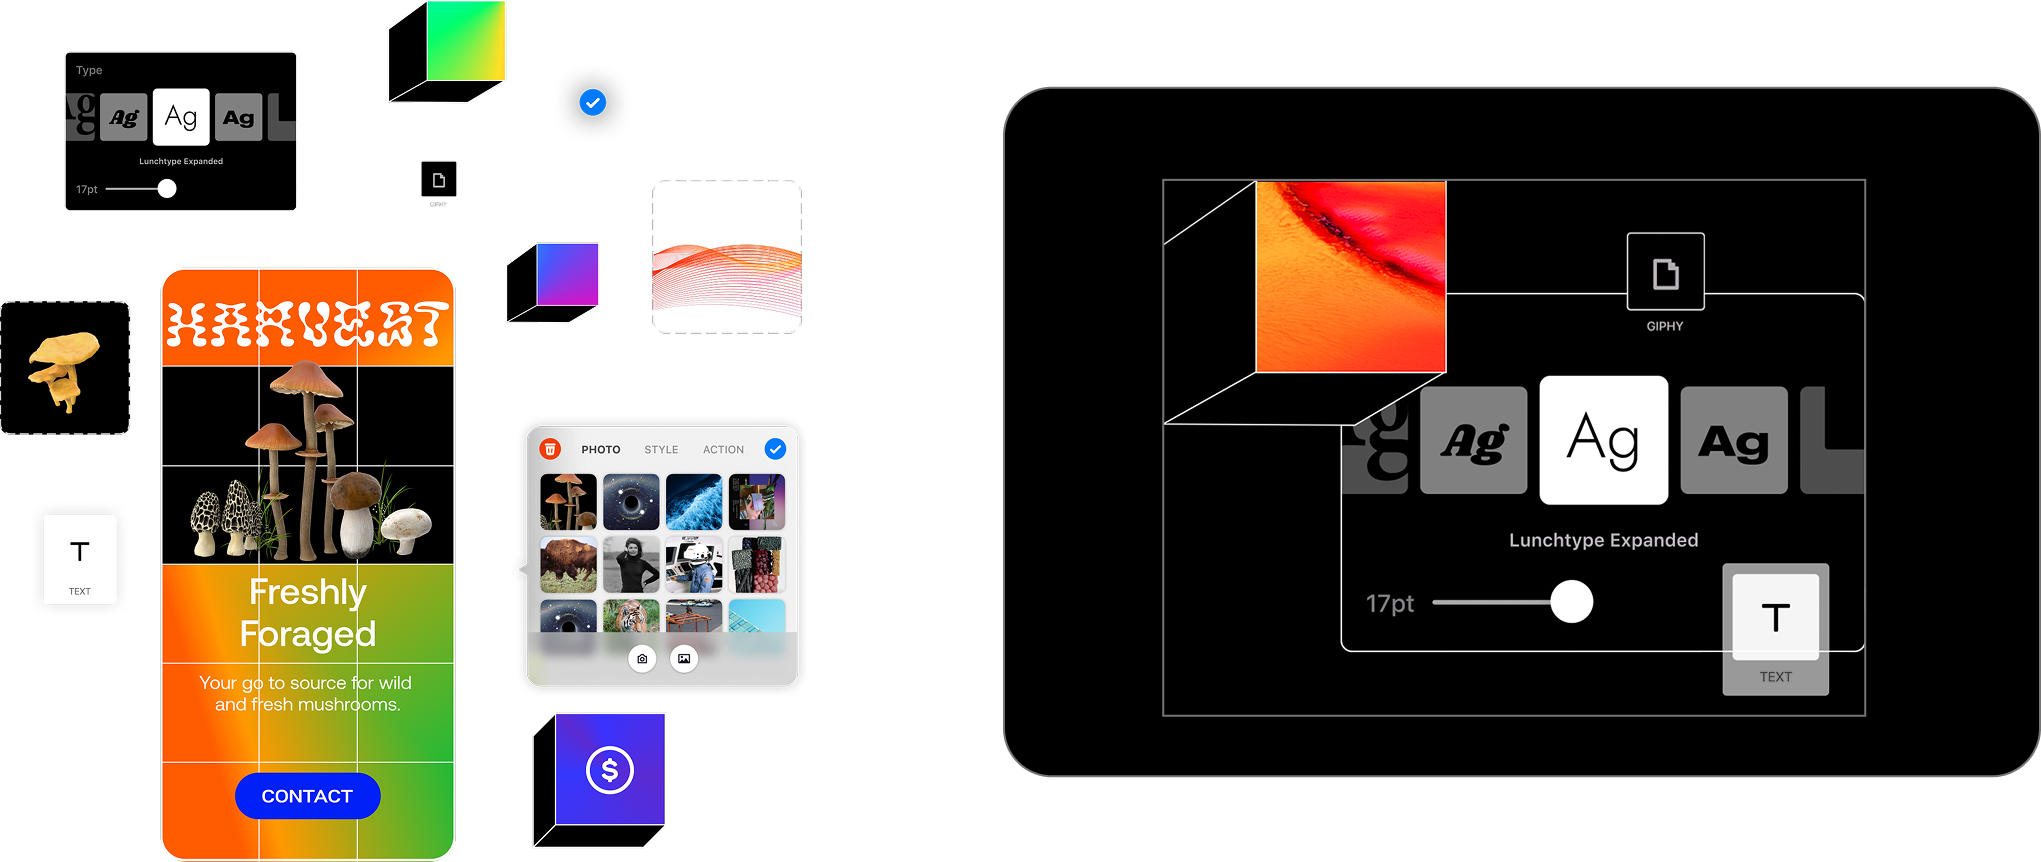
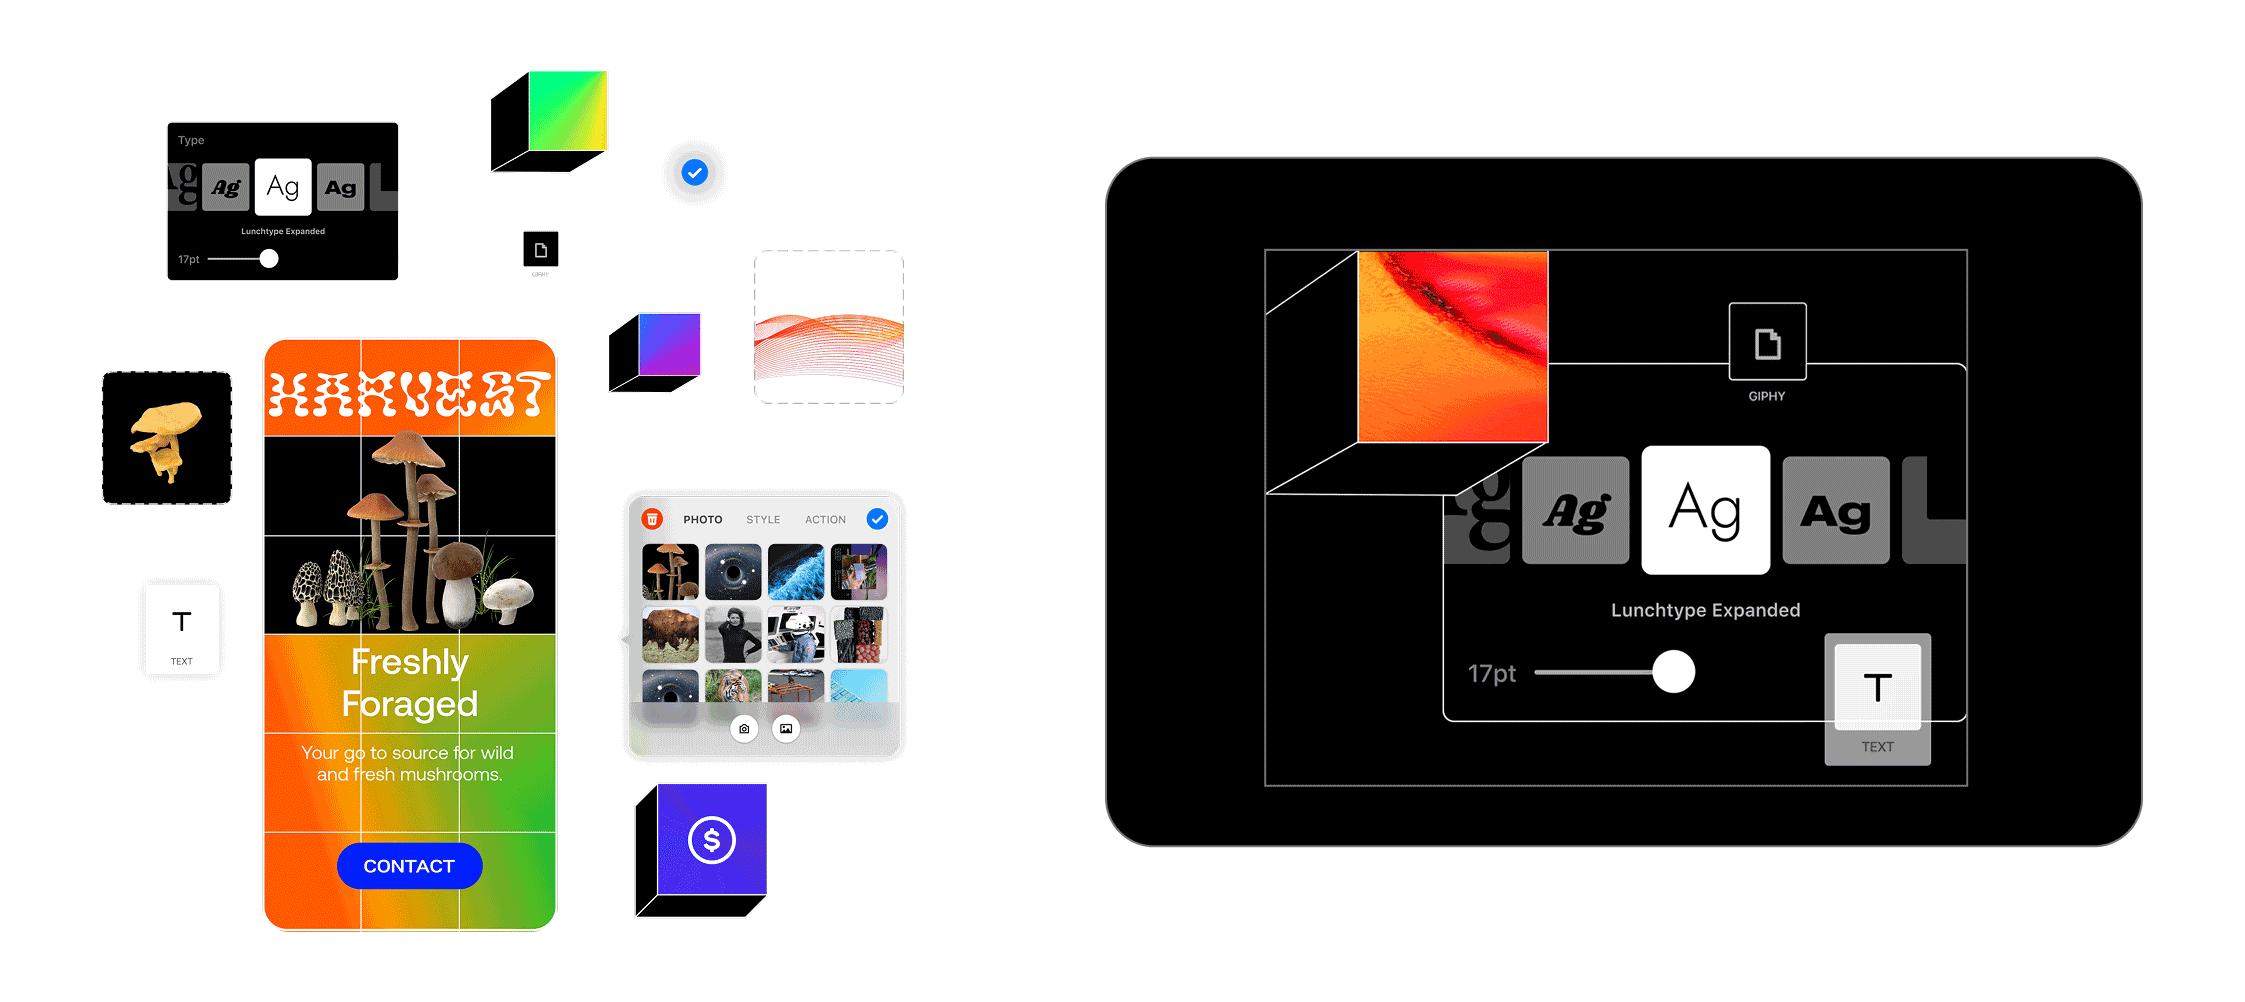
Add files via upload

diff --git a/index.html b/index.html
@@ -143,8 +143,10 @@
     .detail-inner { padding: 40px 56px 100px; max-width: 1100px; margin: 0 auto; }
 
     .detail-title { font-size: 30px; margin-top: 8px; text-align: center; color: #000000; }
-    .detail-subtitle { text-align: center; color: #666; font-size: 0.95rem; letter-spacing: 0.02em; margin-top: 6px; margin-bottom: 32px; }
-    .detail-desc { max-width: 720px; margin: 0 auto 40px; color: #333; text-align: center; }
+       .detail-subtitle { text-align: center; color: #666; font-size: 18px; letter-spacing: 0.02em; margin-top: 6px; margin-bottom: 32px; }
+
+       .detail-desc { max-width: 720px; margin: 0 auto 40px; color: #333; text-align: center; font-size: 18px; }
+
     /* force-center content even where inline left-align was set */
     .detail-desc[style*="left"] { text-align: center !important; }
     .detail-text { text-align: center; }
@@ -162,7 +164,8 @@
     .detail-images { display: flex; flex-direction: column; gap: 20px; }
     .detail-images img { width: 100%; border-radius: 8px; display: block; }
     .detail-text { max-width: 720px; margin: 0 auto; }
-    .detail-text p { margin-bottom: 16px; color: #333; }
+        .detail-text p { margin-bottom: 16px; color: #333; font-size: 18px; }
+
 
     .layout-left  .detail-body { grid-template-columns: var(--img-col) 1fr; }
     .layout-right .detail-body { grid-template-columns: 1fr var(--img-col); }
@@ -358,44 +361,64 @@
     </div>
   </section>
 
-  <!-- ============ 3 — Games Collection ============ -->
+    <!-- ============ 3 — Games Collection ============ -->
   <section class="project-detail layout-top text-left" data-index="3" style="--accent:#16a34a;">
     <div class="detail-topbar"><button class="circle-btn icon-close" onclick="closeProject()" aria-label="Close"></button></div>
     <div class="detail-header"><img src="images/project2-header.png" alt="Games Collection header" /></div>
     <div class="detail-inner">
       <h2 class="detail-title">Games Collection</h2>
       <p class="detail-subtitle">Visual System &nbsp;|&nbsp; Design Component</p>
-      <p class="detail-desc">When I was given the task of designing a system for a group of games that requires weekly updates, business affairs' approval, and sometimes extremely low-fidelity assets, it was both important and challenging to come up with an essential set of elements.</p>
+
+      <p class="detail-desc">I was tasked with designing a system for a group of games that required weekly updates, business affairs approval, and often extremely low-fidelity assets. Creating a set of essential, flexible elements that could hold up under these constraints was both critical and challenging.</p>
+
+      <div class="detail-section"><h3>Component</h3></div>
+      <p class="detail-desc">Because the cover art needed a weekly refresh, I explored a mesh pattern as an evergreen foundation, a symbol that feels timeless and generic enough to sit behind ever-changing content without raising approval or licensing issues. After testing several directions, I landed on a center-focused chiclet with line art radiating outward, an approach that speaks to the core spirit of the App Store.</p>
+
       <div class="detail-images">
-        <img src="images/project2-detail-04.png" alt="Games detail 4" />
-        <img src="images/project2-detail-01.png" alt="Games detail 1" />
-        <div class="detail-text" style="margin-bottom:0;">
-          <h3 style="font-size:1.4rem; margin-bottom:10px;">Gradient Study</h3>
-          <p>When working with Games, the energy is active and the color is bold; a vibrant gradient provides dynamic motion in a static way. It became the core identity of most of the Games Collections. This set of gradient explorations has been incorporated into several subsequent projects currently running on the App Store.</p>
-          <p style="color:#777; font-size:0.9rem;">Tool: Illustrator</p>
-        </div>
-        <img src="images/project2-detail-02.png" alt="Gradient study" />
-        <img src="images/project2-detail-03.png" alt="Games detail 3" />
+        <img src="images/project2-detail-01.png" alt="Games Collection detail 1" />
+      </div>
+
+      <div class="detail-section"><h3>The Color</h3></div>
+      <p class="detail-desc">A vibrant color gradient brings it all together, giving the system a playful, fun, and modern feel.</p>
+
+      <div class="detail-images">
+        <img src="images/project2-detail-02.png" alt="Games Collection detail 2" />
+        <img src="images/project2-detail-03.png" alt="Games Collection detail 3" />
+        <img src="images/project2-detail-04.png" alt="Games Collection detail 4" />
       </div>
     </div>
   </section>
 
-  <!-- ============ 4 — WWDC Campaign ============ -->
-  <section class="project-detail layout-top img-large text-left" data-index="4" style="--accent:#a855f7;">
+
+    <!-- ============ 4 — WWDC Campaign ============ -->
+  <section class="project-detail layout-top text-left" data-index="4" style="--accent:#a855f7;">
     <div class="detail-topbar"><button class="circle-btn icon-close" onclick="closeProject()" aria-label="Close"></button></div>
     <div class="detail-header"><img src="images/project3-header.png" alt="WWDC Campaign header" /></div>
     <div class="detail-inner">
       <h2 class="detail-title">WWDC Campaign</h2>
       <p class="detail-subtitle">Problem solving &nbsp;|&nbsp; Communication &nbsp;|&nbsp; Production</p>
-      <div class="detail-desc" style="text-align:left;">
-        <p style="margin-bottom:16px;"><strong>Overview &amp; Problem</strong><br />
-        Developer assets for Apps and Games differ significantly in their presentation and purpose. In the realm of games, captivating high-quality character art often takes center stage, effectively presenting the essence of the game. However, when it comes to Apps, the challenge of presentation is more nuanced. Apps encompass a wide range of categories, including language-learning apps, AR experiences, meditation apps, and more. How to implement two different art styles into a harmonious visual consistency—maintaining the charm of each product while ensuring they complement and enhance each other seamlessly—is a challenge I always encounter.</p>
-        <p><strong>Solution</strong><br />
-        Design a key visual that communicates the app's unique value, and craft a cohesive visual system that strikes the right balance between the captivating appeal of a game character and the less visually appealing nature of an app's user interface. Utilizing screenshots, promotional materials, and conducted research, I identify the essential elements or user interface that best represents the core value of the app. Crafting these assets using vibrant colors, toning down the visual complexity, and building a cohesive visual following the brand guideline—focusing on maintaining visual consistency across all platforms, ensuring uniformity in lighting, color grading, and scale throughout the design.</p>
+
+      <div class="detail-section"><h3>Overview &amp; Problem</h3></div>
+      <p class="detail-desc">Developer assets for Apps and Games differ significantly in their presentation and purpose. In the realm of games, captivating high-quality character art often takes center stage, effectively presenting the essence of the game. However, when it comes to Apps, the challenge of presentation is more nuanced. Apps encompass a wide range of categories, including language-learning apps, AR experiences, meditation apps, and more. How to implement two different art styles into a harmonious visual consistency—maintaining the charm of each product while ensuring they complement and enhance each other seamlessly—is a challenge I always encounter.</p>
+
+      <div class="detail-images">
+        <img src="images/project3-detail-01.png" alt="WWDC Campaign detail 1" />
       </div>
-      <div class="detail-body"><div class="detail-images"><img src="images/project3-detail-01.png" alt="WWDC detail 1" /></div></div>
+
+      <div class="detail-section"><h3>Solution</h3></div>
+      <p class="detail-desc">Design a key visual that communicates the app's unique value, and craft a cohesive visual system that strikes the right balance between the captivating appeal of a game character and the less visually appealing nature of an app's user interface. Utilizing screenshots, promotional materials, and conducted research, I identify the essential elements or user interface that best represents the core value of the app. Crafting these assets using vibrant colors, toning down the visual complexity, and building a cohesive visual following the brand guideline—focusing on maintaining visual consistency across all platforms, ensuring uniformity in lighting, color grading, and scale throughout the design.</p>
+
+      <div class="detail-images">
+        <img src="images/project3-detail-02.png" alt="WWDC Campaign detail 2" />
+      </div>
+
+      <div class="detail-section"><h3>On iPad, Apple TV, Vision Pro</h3></div>
+      <div class="detail-images">
+        <img src="images/project3-detail-03.png" alt="On iPad, Apple TV, Vision Pro" />
+      </div>
     </div>
   </section>
+
 
   <!-- ============ 5 — Value's Moment Takeover ============ -->
   <section class="project-detail layout-top text-left" data-index="5" style="--accent:#ea580c;">
@@ -452,14 +475,16 @@
   <!-- ============ 7 — Disney Sweepstakes ============ -->
   <section class="project-detail layout-top text-left" data-index="7" style="--accent:#db2777;">
     <div class="detail-topbar"><button class="circle-btn icon-close" onclick="closeProject()" aria-label="Close"></button></div>
-       <div class="detail-header" style="width:70%; margin:0 auto;"><img src="images/project8-header.png" alt="Disney Sweepstakes header" style="border-radius:16px;" /></div>
-
+    <!-- title + subtitle FIRST, with a little top spacing -->
+    <h2 class="detail-title" style="margin-top:48px;">Disney Sweepstakes</h2>
+    <p class="detail-subtitle">Creative concept &nbsp;|&nbsp; Production</p>
+    <!-- header image below -->
+    <div class="detail-header" style="width:70%; margin:0 auto;"><img src="images/project8-header.png" alt="Disney Sweepstakes header" style="border-radius:16px;" /></div>
     <div class="detail-inner">
-      <h2 class="detail-title">Disney Sweepstakes</h2>
-      <p class="detail-subtitle">Creative concept &nbsp;|&nbsp; Production</p>
       <div class="detail-body"><div class="detail-images"><img src="images/project6.jpg" alt="Disney Sweepstakes" onerror="this.style.display='none'" /></div></div>
     </div>
   </section>
+
 
   <button id="toTop" class="circle-btn icon-up" onclick="scrollProjectTop()" aria-label="Back to top"></button>
 
